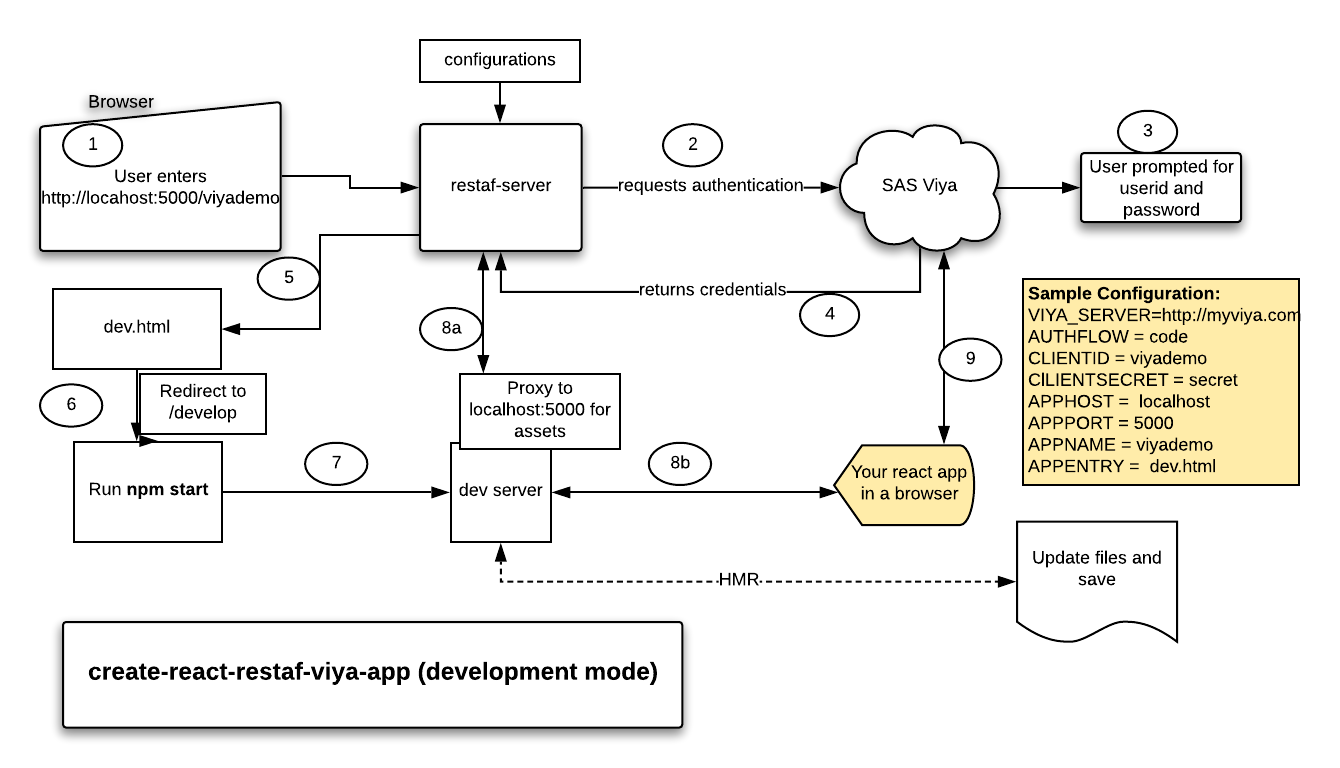
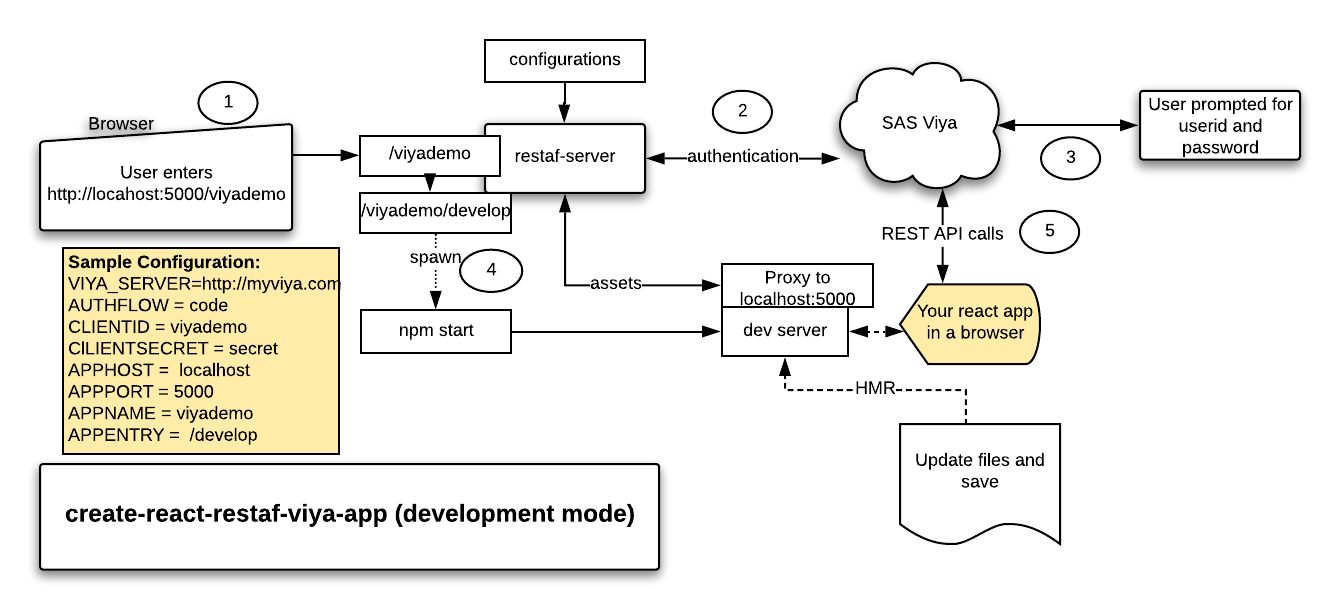
support /develop APPENTRY

diff --git a/server.js b/server.js
@@ -14,11 +14,11 @@ function getCustomHandler () {
 				cors   : true,
 				handler: async (req, h) => {
                     const spawn = require('cross-spawn');
-                    let child = spawn('npm', ['start'],{stdio: 'inherit'})
+                    let child = spawn('yarn', ['start'],{stdio: 'inherit'})
                     let h2 = '<h2>Viya Server: ' + process.env.VIYA_SERVER + '<h2>';
                     return h2 + 
                                 "<h3>Your session is authenticated</h3>" +
-                                "<h3>Your application is now running in another tab </h3>" +
+                                "<h3>Your application is starting in another tab </h3>" +
                                 "<h4> HMR is active</h4>";
 				}
         }

diff --git a/installPackages.js b/installPackages.js
@@ -6,7 +6,7 @@ let sh = require('shelljs');
 module.exports = installPackages = (appDirectory) => {
 	return new Promise((resolve) => {
 		console.log(`\nInstalling application dependencies in ${appDirectory}\n`);
-		sh.exec(`cd ${appDirectory} && npm install --save rimraf @sassoftware/restaf-server @sassoftware/restaf @sassoftware/restaflib cross-env cross-spawn http-proxy-middleware && npm audit fix`, () => {
+		sh.exec(`cd ${appDirectory} && yarn add rimraf @sassoftware/restaf-server @sassoftware/restaf @sassoftware/restaflib cross-env cross-spawn http-proxy-middleware && npm audit fix`, () => {
 			console.log('\nFinished installing packages\n'.green);
 			resolve();
 		});

diff --git a/templates/public/index.js b/templates/public/index.js
@@ -15,7 +15,7 @@ module.exports = function index (appName, scriptTag, title) {
             </head>
             <body>
                 <script>
-                   window.appOptions = {host: "%REACT_APP_VIYA_SERVER%", appEnv: APPENV, logonPayload: LOGONPAYLOAD};
+                   window.appOptions = {appEnv: APPENV, logonPayload: LOGONPAYLOAD};
                 </script>
                 <div id="root">
                 </div>

diff --git a/cli.js b/cli.js
@@ -51,11 +51,11 @@ run()
 		                 
 		console.log(
 			`\nFor development run this command:    
-		        npm run dev`.cyan
+		        yarn dev`.cyan
 		);
 		console.log(
 			`\nFor standard application mode run this command(after npm run build)
-			    npm run app`.cyan
+			    yarn app`.cyan
 		);
 	})
 	.catch((err) => {

diff --git a/templates/dockfile.js b/templates/dockfile.js
@@ -21,7 +21,7 @@ EXPOSE 8080
 ENV APPHOST=0.0.0.0
 ENV APPPORT=8080
 ENV APPNAME=${appName}
-ENV APPLOC=./public
+# ENV APPLOC=./public
 # ENV APPENTRY=index.html 
 # APPENV=appenv.js
 CMD ["npm", "run", "indocker"]

diff --git a/README.md b/README.md
@@ -6,11 +6,11 @@ Additionally when developing Viya apps the code needs to access SAS Viya using t
 
 This extension of create-react-app is designed to help developer's building react apps using restaf library and its companions:
 
-1. restaf
-2. restaflib
-3. restaf-server
+1. [restaf](https://github.com/sassoftware/restaf/wiki)
+2. [restaflib](https://github.com/sassoftware/restaf/wiki)
+3. [restaf-server](https://github.com/sassoftware/restaf-server/wiki)
 
-![create-react-restaf-viya](/create-react-restaf-viya-app.png)
+![create-react-restaf-viya](create-react-restaf-viya-app.png)
 
 >There is a fully functional demo in the demo directory of this repository. It uses material-ui as the primary UI framework.
 
@@ -56,7 +56,7 @@ Run this command to have HMR enabled
 
 ```sh
 cd to-the-app-directory
-npm run dev
+yarn dev
 ```
 
 ## Application mode
@@ -65,7 +65,7 @@ Run this command( no HMR)
 
 ```sh
 cd to-the-app-directory
-npm run app
+yarn app
 ```
 
 Then use the created app just as you would any app created with create-react-app
@@ -89,12 +89,15 @@ let {appenv, logonPayload} = appOptions;
 
 ```
 
+The store is the restaf store object that you will use to make the API calls.
+
 ## Requiring restaf and restaflib in your application
 
-Code these as follows:
+These two libraries are part of the installed dependencies. To access them in your react components do these as follows:
 
 ```js
-const restaf = require('@sassoftware/restaf/dist/restaf.js');
-const restaflib = require('@sassoftware/restaflib/dist/restaflib.js');
-
+let restaf = require('@sassoftware/restaf/dist/restaf.js');
+let restaflib = require('@sassoftware/restaflib/dist/restaflib.js');
 ```
+
+In all probablity you will not refer directly to restaf in your code. You will use the store object in the AppContext(see above). This value is set as part of the application setup.
